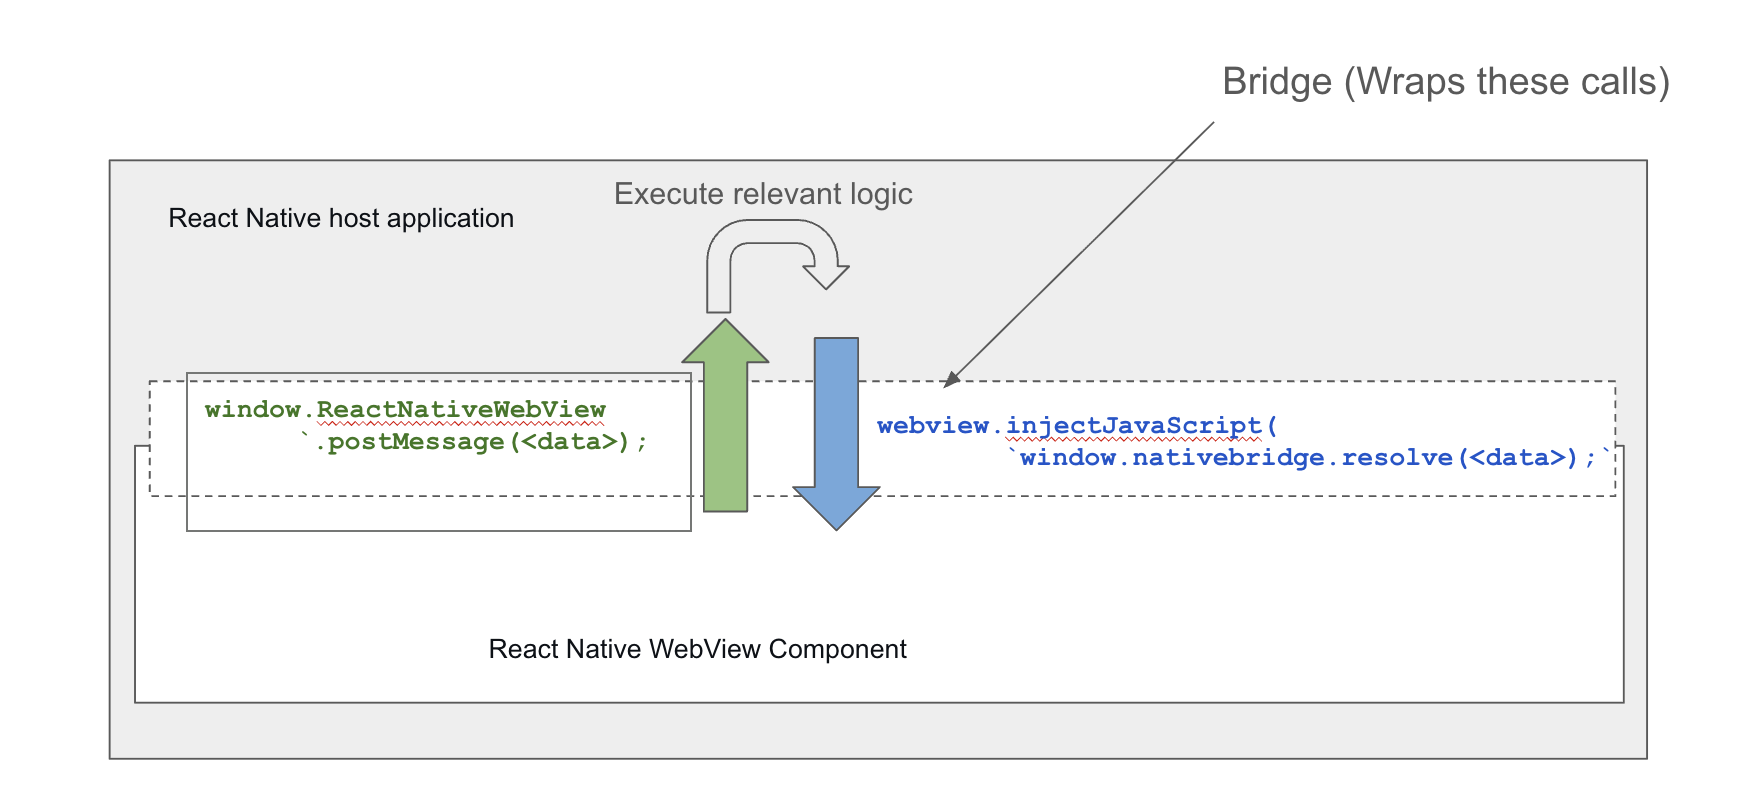
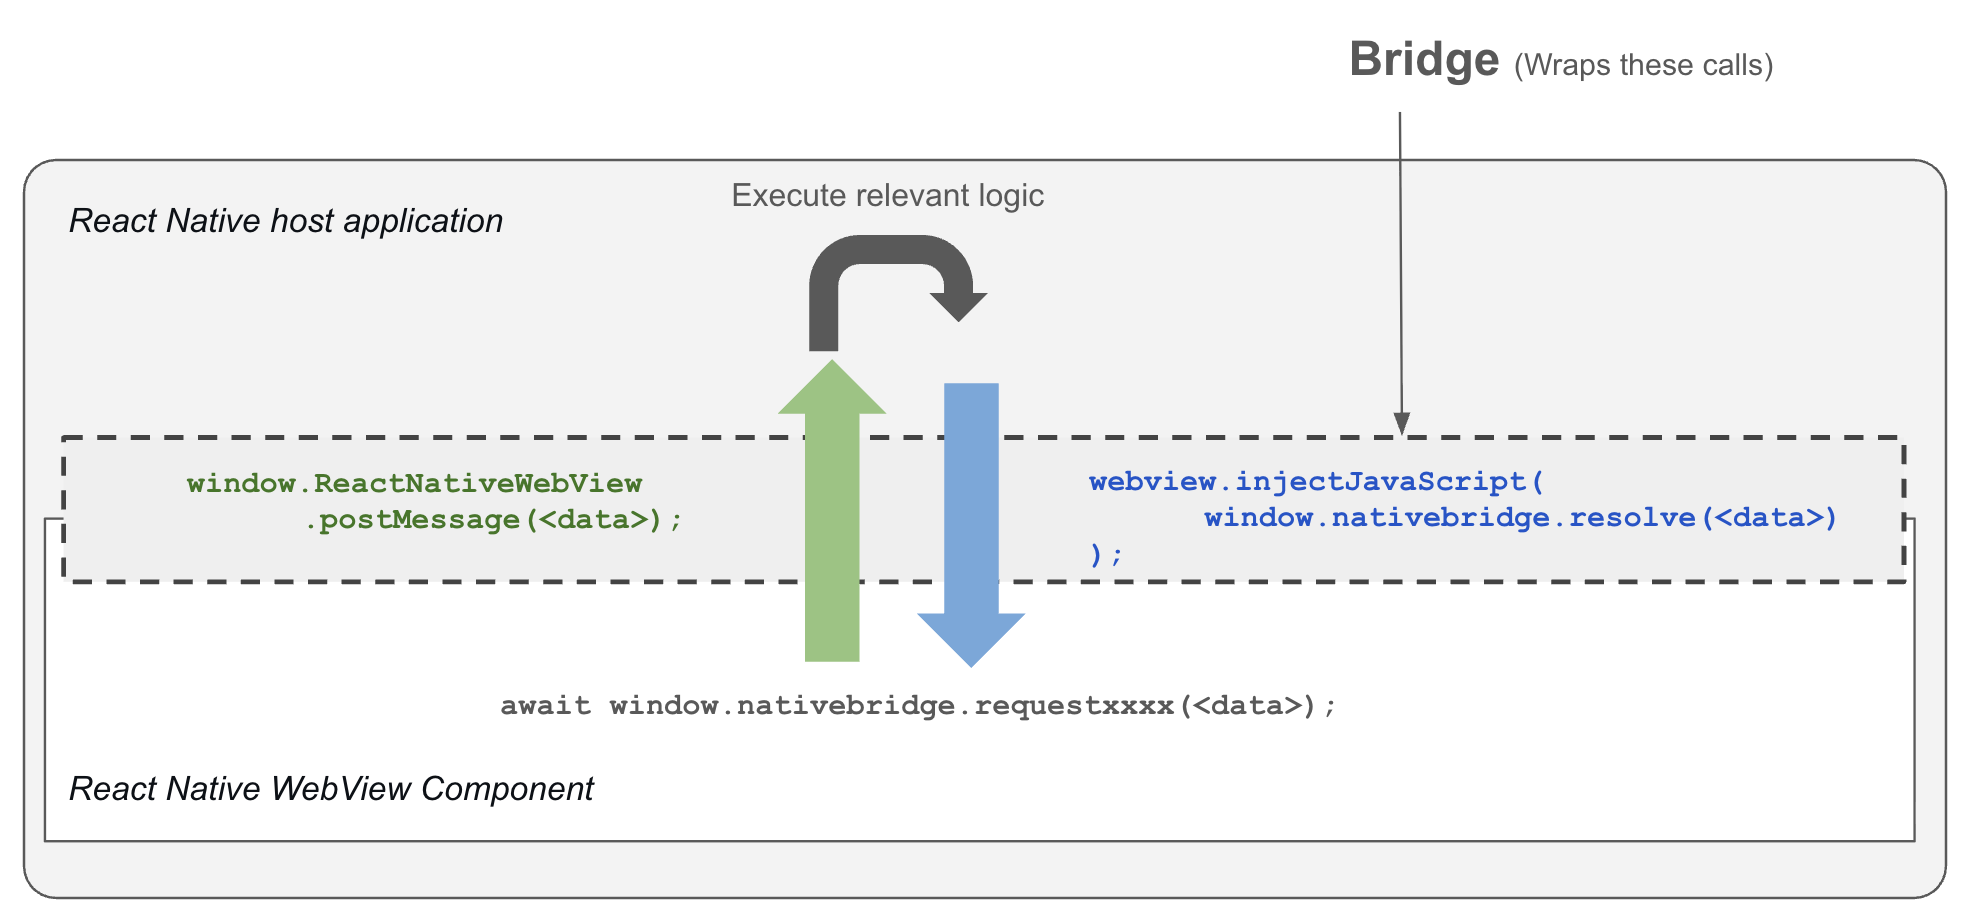
docs: Update Bridge Communication Guide

Changed region(s): [[0.0, 0.1559, 0.9931, 0.9975], [0.6828, 0.0312, 0.9621, 0.1247]]

diff --git a/docs/microapp-developer/bridge-api.md b/docs/microapp-developer/bridge-api.md
@@ -1,5 +1,28 @@
 # Bridge Communication Guide
 
+## Quick Reference (Available Bridge Functions)
+
+| Method | Returns | Description |
+|--------|---------|-------------|
+| [`requestToken()`](#token-management) | `Promise<string>` | Retrieve authentication token for API calls |
+| [`requestAlert({...})`](#alert-dialog) | `Promise<void>` | Display native alert dialog |
+| [`requestConfirmAlert({...})`](#confirmation-dialog) | `Promise<"confirm" \| "cancel">` | Display native confirmation dialog |
+| [`requestCloseWebview()`](#close-webview) | `void` | Navigate back/close current MicroApp |
+| [`requestQRCode()`](#qr-code-scanner) | `Promise<string>` | Activate QR scanner and get scanned code |
+| [`requestDeviceSafeAreaInsets()`](#device-safe-area-insets) | `Promise<{top, bottom, left, right}>` | Get device safe area insets |
+| [`requestSaveLocalData({...})`](#save-local-data) | `Promise<void>` | Persist data using AsyncStorage |
+| [`requestGetLocalData({...})`](#get-local-data) | `Promise<{value: string \| null}>` | Retrieve data from AsyncStorage |
+| [`requestAuthenticateWithGoogle()`](#google-authentication) | `Promise<UserInfo>` | Initiate Google OAuth flow |
+| [`requestCheckGoogleAuthState()`](#check-google-auth-state) | `Promise<boolean \| UserInfo>` | Check Google auth status |
+| [`requestGoogleUserInfo()`](#get-google-user-info) | `Promise<UserInfo>` | Get Google user information |
+| [`requestUploadToGoogleDrive(data)`](#upload-to-google-drive) | `Promise<{id: string}>` | Upload to Google Drive |
+| [`requestRestoreGoogleDriveBackup()`](#restore-from-google-drive) | `Promise<any>` | Restore backup from Google Drive |
+| [`requestDownloadFile({...})`](#file-downloads) | `Promise<{localPath: string}>` | Download file to device |
+| [`requestTotpQrMigrationData()`](#totp-qr-migration-data) | `Promise<{data: string}>` | Get TOTP migration QR data |
+| [`requestNativeLog({...})`](#native-log) | `void` | Log to native console (dev only) |
+
+---
+
 ## Overview
 
 The Bridge is a communication layer that enables secure, bidirectional messaging between the SuperApp (React Native) and embedded MicroApps (web applications running in WebViews). This architecture allows MicroApps to access native device capabilities and SuperApp services while maintaining security boundaries.
@@ -165,7 +188,7 @@ if (window.nativebridge) {
 
 ### Making Requests
 
-All bridge functions now return promises for cleaner asynchronous handling:
+All bridge functions return promises for cleaner asynchronous handling:
 
 ```javascript
 // Example: Request token
@@ -320,44 +343,3 @@ try {
 - **Request**: `window.nativebridge.requestNativeLog({level, message, data})`
 - **Purpose**: Log messages to native console (only works in development mode)
 - **Levels**: `"info"`, `"warn"`, `"error"`
-
----
-
-## Appendix: Backward Compatibility
-
-### Event-Based Approach (Legacy)
-
-The bridge system maintains backward compatibility with legacy event-based implementations. While the **promise-based approach is recommended** for new development, the bridge continues to support the older pattern.
-
-**Legacy Pattern (Pre-defined Callbacks):**
-
-```javascript
-// example usage for `save_local_data` function
-window.ReactNativeWebView.postMessage(
-  JSON.stringify({
-    topic: "save_local_data",
-    data: { key, value },
-  })
-);
-
-// Pre-define callbacks on the bridge object
-window.nativebridge.resolveSaveLocalData = (data) => {
-  console.log("Success:", data);
-};
-
-window.nativebridge.rejectSaveLocalData = (error) => {
-  console.error("Failed:", error);
-};
-```
-
-The bridge auto-generates method names from topics using a `capitalize` function that converts snake_case to PascalCase and appends the relevant prefix afterwards. For example:
-
-- Topic: `save_local_data` → Methods: `requestSaveLocalData`, `resolveSaveLocalData`, `rejectSaveLocalData`
-- Topic: `google_login` → Methods: `requestGoogleLogin`, `resolveGoogleLogin`, `rejectGoogleLogin`
-
-When handlers call `context.resolve(data)` or `context.reject(error)`, the bridge:
-
-1. **Resolves/rejects the promise** (modern approach)
-2. **Calls the pre-defined callback** if it exists (legacy compatibility)
-
-**Note:** New MicroApps should use the promise-based approach. The event-based pattern with pre-defined callbacks is maintained only for backward compatibility with existing implementations.
